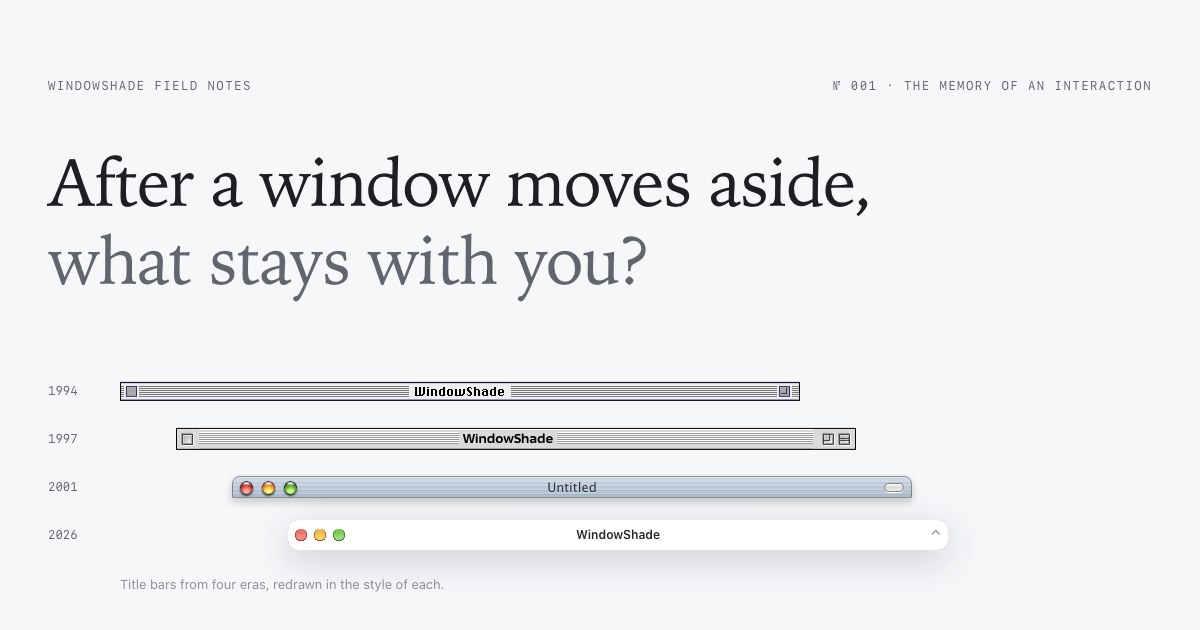
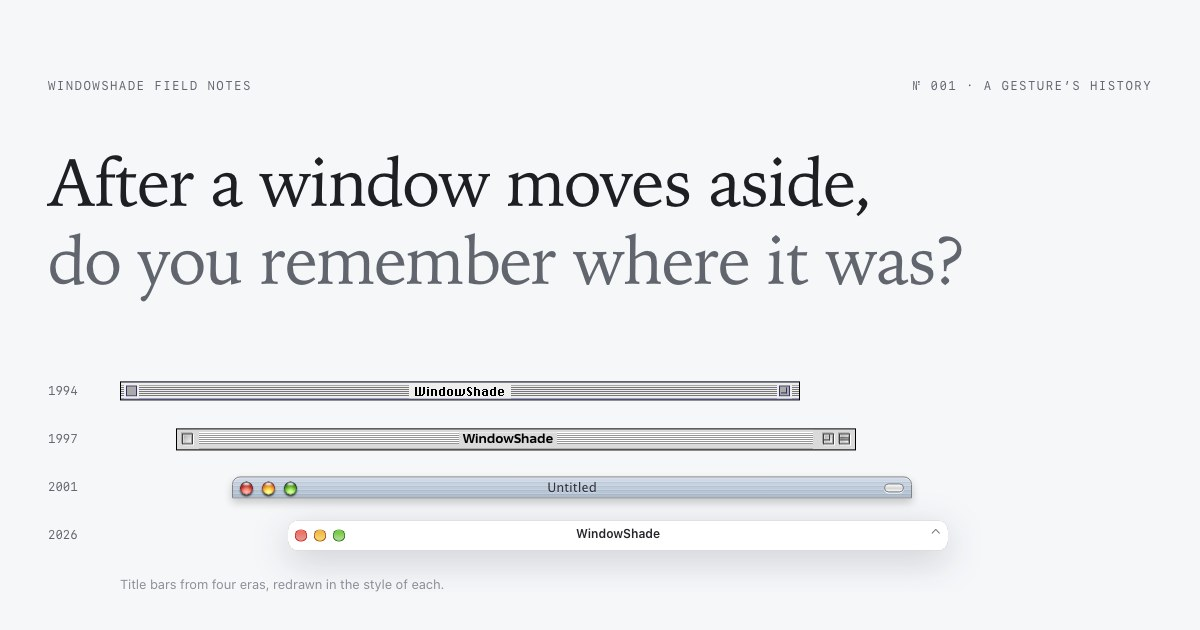
Rewrite the window stories in plain words
The essay now says what happened and what to try, the way the homepage
does. Aphorisms, parallel slogans, metaphors that needed explaining and
padded lists are gone; chapter names say what each chapter is about; the
experiment prompts and emulator messages are short instructions. Facts and
sources are unchanged. The English cover question now matches the Chinese
one, and its share card is re-rendered.

diff --git a/site/history.js b/site/history.js
@@ -16,10 +16,10 @@
  const $ = id => document.getElementById(id);
  const pressed = (selector, active) => document.querySelectorAll(selector).forEach(b => b.setAttribute('aria-pressed', String(b === active)));
  const spaceText = {
-  open:t('让参考资料让开，看看草稿。','Move the reference aside to see the draft.'),
-  shade:t('内容让开了，标题与位置还在。点标题栏，原地回来。','The contents step aside. The title and place remain. Click the bar to return.'),
-  minimize:t('入口到了底部。要回来，得把目光也移过去。','The return point moves to the bottom. Your attention has to follow it there.'),
-  overview:t('两扇窗口一起出现；布局暂时改变，便于挑选。点参考标题栏结束总览。','Both windows become visible in a temporary arrangement. Click the reference bar to leave overview.')
+  open:t('选一种办法，把参考资料挪开。','Pick a way to move the reference aside.'),
+  shade:t('内容收上去了，标题栏还在原处。点一下标题栏，窗口回来。','The contents rolled up; the title bar stayed put. Click it to bring the window back.'),
+  minimize:t('窗口去了底部。要回来，得先去那里找。','The window went to the bottom. To get it back, you have to look there.'),
+  overview:t('两扇窗口都摆出来了，位置也变了。点参考资料的标题栏，恢复原样。','Both windows are laid out, in new places. Click the reference’s title bar to put things back.')
  };
  function arrange(mode) {
   $('space-desk').dataset.mode = mode;
@@ -60,7 +60,7 @@
   $('gesture-window').classList.toggle('folded',gestureFolded);
   $('gesture-bar').setAttribute('aria-expanded',String(!gestureFolded));
   $('gesture-content').setAttribute('aria-hidden',String(gestureFolded));
-  $('gesture-status').textContent=t(gestureFolded?'收起了。再用同样的节奏展开。':'展开了，还是原来的位置。',gestureFolded?'Rolled up. Repeat the rhythm to expand.':'Expanded, in the same place.');
+  $('gesture-status').textContent=t(gestureFolded?'收起了。用同样的次数再点一遍，就能展开。':'展开了，还在原来的位置。',gestureFolded?'Rolled up. Click the same number of times to unroll.':'Unrolled, in the same place.');
   sound(gestureFolded);
  }
  form.addEventListener('submit',e=>e.preventDefault());
@@ -74,13 +74,13 @@
   clearTimeout(clickTimer);clickCount++;
   if(clickCount>=count){clickCount=0;toggleGesture();return;}
   $('gesture-status').textContent=t(`已点 ${clickCount} / ${count} 次……`,`${clickCount} / ${count} clicks…`);
-  clickTimer=setTimeout(()=>{clickCount=0;$('gesture-status').textContent=t('这次还没触发。','Not triggered this time. ')+preferenceMessage();},650);
+  clickTimer=setTimeout(()=>{clickCount=0;$('gesture-status').textContent=t('次数不对，没收起。','Wrong count, so nothing happened. ')+preferenceMessage();},650);
  });
  $('gesture-simulate').addEventListener('click',()=>{clearTimeout(clickTimer);clickCount=0;if(getPreference().count)toggleGesture();else $('gesture-status').textContent=preferenceMessage();});
  const platinumDesk=$('platinum-desk'),platinumWindow=$('platinum-window'),platinumBar=$('platinum-bar');
  let platinumFolded=false,drag=null,dragMoved=false;
  const platinumSay=text=>{$('platinum-result').textContent=text;};
- const movedText=()=>t(platinumFolded?'标题栏到了新位置。双击标题栏（或点方框）展开，看内容出现在哪里。':'窗口跟着标题栏一起移动。',platinumFolded?'The title bar is somewhere new. Double-click it (or click the box) and see where the contents appear.':'The window moves with its title bar.');
+ const movedText=()=>t(platinumFolded?'挪好了。双击标题栏或点方框展开，看窗口在哪儿打开。':'窗口跟着标题栏一起移动。',platinumFolded?'Moved. Double-click the title bar or click the box, and see where the window opens.':'The window moves with its title bar.');
  let platinumX=null,platinumY=null;
  function platinumOffset(){
   if(platinumX===null){
@@ -101,7 +101,7 @@
   platinumFolded=!platinumFolded;platinumWindow.classList.toggle('folded',platinumFolded);
   $('platinum-collapse').setAttribute('aria-expanded',String(!platinumFolded));
   $('platinum-content').setAttribute('aria-hidden',String(platinumFolded));
-  platinumSay(t(platinumFolded?'只剩标题栏。把它拖到别处，再双击一次（或点方框）展开。':'内容在标题栏现在的位置展开。',platinumFolded?'Only the title bar is left. Drag it somewhere else, then double-click it (or click the box) to expand.':'The contents open where the title bar now is.'));
+  platinumSay(t(platinumFolded?'只剩标题栏了。拖到别处，再双击或点方框展开。':'窗口在标题栏现在的位置展开了。',platinumFolded?'Only the title bar is left. Drag it somewhere else, then double-click it or click the box.':'The contents open where the title bar now is.'));
  }
  $('platinum-collapse').addEventListener('click',togglePlatinum);
  // 1997 年的手势本身就是双击标题栏；拖动过的这一次不算双击。
@@ -135,16 +135,16 @@
  });
  machineSize.observe($('machine-screen'));
  const machines=[
-  {name:'System 7.5',year:1994,tasks:[t('打开 Apple 菜单 → Control Panels → WindowShade。','Open Apple menu → Control Panels → WindowShade.'),t('选择 2 次点击，然后双击另一个窗口的标题栏。','Choose two clicks, then double-click another window’s title bar.'),t('改为 3 次点击，感受同一个动作的不同节奏。','Switch to three clicks and feel the change of rhythm.')]},
-  {name:'Mac OS 8.0',year:1997,tasks:[t('打开磁盘上的文件夹，看看标题栏最右边的按钮。','Open a folder on the disk and inspect the rightmost title-bar button.'),t('点 collapse box，把窗口收起。','Click the collapse box to roll the window up.'),t('拖动留下的标题栏，再点按钮展开，检查新位置。','Drag the remaining title bar, then expand and check its new location.')]},
-  {name:'Mac OS X 10.1',year:2001,tasks:[t('等待 OS X 启动，打开一个 Finder 窗口。','Let OS X boot, then open a Finder window.'),t('点标题栏的黄色按钮，观察窗口去了哪里。','Click the yellow title-bar button and watch where the window goes.'),t('从 Dock 恢复窗口。与前面两台系统比较。','Restore the window from the Dock. Compare it with the other systems.')]}
+  {name:'System 7.5',year:1994,tasks:[t('打开 Apple 菜单 → Control Panels → WindowShade。','Open Apple menu → Control Panels → WindowShade.'),t('选择 2 次点击，然后双击另一个窗口的标题栏。','Choose two clicks, then double-click another window’s title bar.'),t('改成 3 次点击，再双击试试。','Switch to three clicks and double-click again.')]},
+  {name:'Mac OS 8.0',year:1997,tasks:[t('打开磁盘上的文件夹，看看标题栏最右边的按钮。','Open a folder on the disk and inspect the rightmost title-bar button.'),t('点 collapse box，把窗口收起。','Click the collapse box to roll the window up.'),t('拖动标题栏，再点按钮展开，看窗口在哪儿打开。','Drag the title bar, click the box again, and see where the window opens.')]},
+  {name:'Mac OS X 10.1',year:2001,tasks:[t('等待 OS X 启动，打开一个 Finder 窗口。','Let OS X boot, then open a Finder window.'),t('点黄色按钮，看窗口去了哪里。','Click the yellow button and watch where the window goes.'),t('再从 Dock 把它点回来，和前两台比一比。','Bring it back from the Dock, and compare with the other two.')]}
  ];
  let current=0, iframe=null, loadTimer, loaded=false;
  const done=new Set();
  function stopMachine(notify=true){
   clearTimeout(loadTimer);iframe?.remove();iframe=null;loaded=false;
   $('machine-placeholder').hidden=false;$('machine-stop').hidden=true;$('power-light').classList.remove('on');
-  if(notify)$('machine-status').textContent=t('模拟器已关闭，运行资源已释放。可以重新启动。','Emulator closed and its running resources released. You can start again.');
+  if(notify)$('machine-status').textContent=t('已关机，可以重新开机。','Shut down. You can boot it again.');
  }
  document.querySelectorAll('[data-machine]').forEach(b=>b.addEventListener('click',()=>{
   const next=Number(b.dataset.machine);if(next===current)return;
@@ -153,7 +153,7 @@
   $('machine-external').href=`https://infinitemac.org/${m.year}/${encodeURIComponent(m.name)}`;
   $('machine-tasks').replaceChildren(...m.tasks.map(text=>{const li=document.createElement('li');li.textContent=text;return li;}));
   $('machine-done').checked=done.has(current);
-  $('machine-status').textContent=t('已选择 '+m.name+'。点击启动才会加载系统。',m.name+' selected. It loads only when you press Start.');
+  $('machine-status').textContent=t('选了 '+m.name+'。点“开机”才会加载。',m.name+' selected. Nothing loads until you boot it.');
  }));
  $('machine-done').addEventListener('change',e=>{if(e.target.checked)done.add(current);else done.delete(current);});
  $('machine-start').addEventListener('click',()=>{
@@ -162,13 +162,13 @@
   url.searchParams.set('disk',m.name);url.searchParams.set('auto_pause','true');url.searchParams.set('library','false');url.searchParams.set('screenSize','640x480');
   iframe=document.createElement('iframe');iframe.src=url.href;iframe.title=t(`可交互的 ${m.name} 旧系统`, `Interactive ${m.name} system`);iframe.allow='cross-origin-isolated';
   $('machine-screen').append(iframe);$('machine-placeholder').hidden=true;$('machine-stop').hidden=false;$('power-light').classList.add('on');
-  $('machine-status').textContent=t('正在加载系统数据。旧 Mac 的启动需要一些时间；也可在独立页面打开。','Loading system data. An old Mac takes a little time to boot; you can also open it separately.');
-  loadTimer=setTimeout(()=>{$('machine-status').textContent=t(loaded?'系统已开始运行；如果尚未进入桌面，请继续等待，或在独立页面打开。':'尚未收到模拟器启动信号。可关闭后重试，或在独立页面打开。',loaded?'The machine has begun running. If the desktop is not ready, give it more time or open it separately.':'No startup signal received yet. Close and retry, or open the system separately.');},45000);
+  $('machine-status').textContent=t('正在加载，旧 Mac 开机要一会儿。等不及可以在独立页面打开。','Loading. An old Mac takes a moment to boot; you can also open it on its own page.');
+  loadTimer=setTimeout(()=>{$('machine-status').textContent=t(loaded?'已经在跑了。还没看到桌面的话再等等，或者在独立页面打开。':'旧系统还没反应。可以关机重试，或者在独立页面打开。',loaded?'The machine has begun running. If the desktop is not ready, give it more time or open it separately.':'No startup signal received yet. Close and retry, or open the system separately.');},45000);
  });
  $('machine-stop').addEventListener('click',()=>{stopMachine();$('machine-start').focus({preventScroll:true});});
  window.addEventListener('message',e=>{
   if(e.origin!=='https://infinitemac.org'||e.source!==iframe?.contentWindow||e.data?.type!=='emulator_loaded')return;
-  loaded=true;$('machine-status').textContent=t('系统数据已载入，机器开始运行。进入桌面后，就可以按旁边的线索探索。','System data loaded; the machine has begun running. Follow the tasks once the desktop appears.');
+  loaded=true;$('machine-status').textContent=t('开机了。看到桌面后，照着右边的步骤试试。','It’s running. Once the desktop appears, follow the steps alongside.');
  });
  // The provider's auto_pause handles both viewport and page visibility, including resume.
  window.addEventListener('pagehide',()=>{stopMachine(false);audioContext?.close().catch(()=>{});});

diff --git a/README.md b/README.md
@@ -40,12 +40,12 @@ Unlike minimizing, the window never leaves the desktop. Drag the bar somewhere e
 
 In the ’90s, most Mac users knew this trick. Then the system changed course, sent windows to the Dock, and the trick was slowly forgotten. We wrote its story as a long read you can operate, **[Window stories](https://windowshade.pages.dev/en/history/)**: seven chapters, four hands-on experiments, 14 primary sources.
 
-1. [Keeping a place](https://windowshade.pages.dev/en/history/#space): one desktop, three arrangements, side by side
-2. [A utility’s beginnings](https://windowshade.pages.dev/en/history/#origin): a 1994 user-group newsletter
-3. [A preference in the fingers](https://windowshade.pages.dev/en/history/#preference): change the old control panel yourself
-4. [A visible button](https://windowshade.pages.dev/en/history/#button): drag a rolled-up window somewhere new
-5. [Another destination](https://windowshade.pages.dev/en/history/#departure): the Dock, Exposé and Mission Control
-6. [Never quite gone](https://windowshade.pages.dev/en/history/#survival): Stickies still keeps the trick
+1. [Don’t close it yet](https://windowshade.pages.dev/en/history/#space): one desktop, three arrangements, side by side
+2. [A small utility](https://windowshade.pages.dev/en/history/#origin): a 1994 user-group newsletter
+3. [Two clicks or three](https://windowshade.pages.dev/en/history/#preference): change the old control panel yourself
+4. [A button for it](https://windowshade.pages.dev/en/history/#button): drag a rolled-up window somewhere new
+5. [Off to the Dock](https://windowshade.pages.dev/en/history/#departure): the Dock, Exposé and Mission Control
+6. [Still in use](https://windowshade.pages.dev/en/history/#survival): Stickies still keeps the trick
 7. [Back to today](https://windowshade.pages.dev/en/history/#return): an old gesture on today’s desk
 
 Then [boot an old Mac](https://windowshade.pages.dev/en/history/#lab) — System 7.5, Mac OS 8 or Mac OS X 10.1, run by [Infinite Mac](https://infinitemac.org/) — and find the setting through the original menus yourself.

diff --git a/README_CN.md b/README_CN.md
@@ -40,12 +40,12 @@
 
 三十年前的 Mac 用户，大多会这一招。后来系统换了思路，把窗口送进 Dock，它就慢慢被人忘了。我们把这段往事写成了一篇可以动手的长文 **[窗口往事](https://windowshade.pages.dev/history/)**：七章，四个动手实验，14 条原始史料。
 
-1. [留下位置](https://windowshade.pages.dev/history/#space)：同一张桌面，三种安排，亲手比一比
-2. [小工具的来路](https://windowshade.pages.dev/history/#origin)：一份 1994 年的用户社群刊物
-3. [手指的偏好](https://windowshade.pages.dev/history/#preference)：改一次当年的控制面板
-4. [一颗按钮](https://windowshade.pages.dev/history/#button)：拖着收起的窗口换个地方
-5. [换一个去处](https://windowshade.pages.dev/history/#departure)：Dock、Exposé 与 Mission Control
-6. [没有消失](https://windowshade.pages.dev/history/#survival)：便笺至今还留着这一招
+1. [先别关掉](https://windowshade.pages.dev/history/#space)：同一张桌面，三种安排，亲手比一比
+2. [一个小工具](https://windowshade.pages.dev/history/#origin)：一份 1994 年的用户社群刊物
+3. [点两下还是三下](https://windowshade.pages.dev/history/#preference)：改一次当年的控制面板
+4. [有了按钮](https://windowshade.pages.dev/history/#button)：拖着收起的窗口换个地方
+5. [去了 Dock](https://windowshade.pages.dev/history/#departure)：Dock、Exposé 与 Mission Control
+6. [还有人在用](https://windowshade.pages.dev/history/#survival)：便笺至今还留着这一招
 7. [回到今天](https://windowshade.pages.dev/history/#return)：旧动作，新的工作现场
 
 读完还可以 [启动一台旧 Mac](https://windowshade.pages.dev/history/#lab)（System 7.5、Mac OS 8、Mac OS X 10.1，由 [Infinite Mac](https://infinitemac.org/) 运行），沿着当年的菜单自己找到这个设置。
